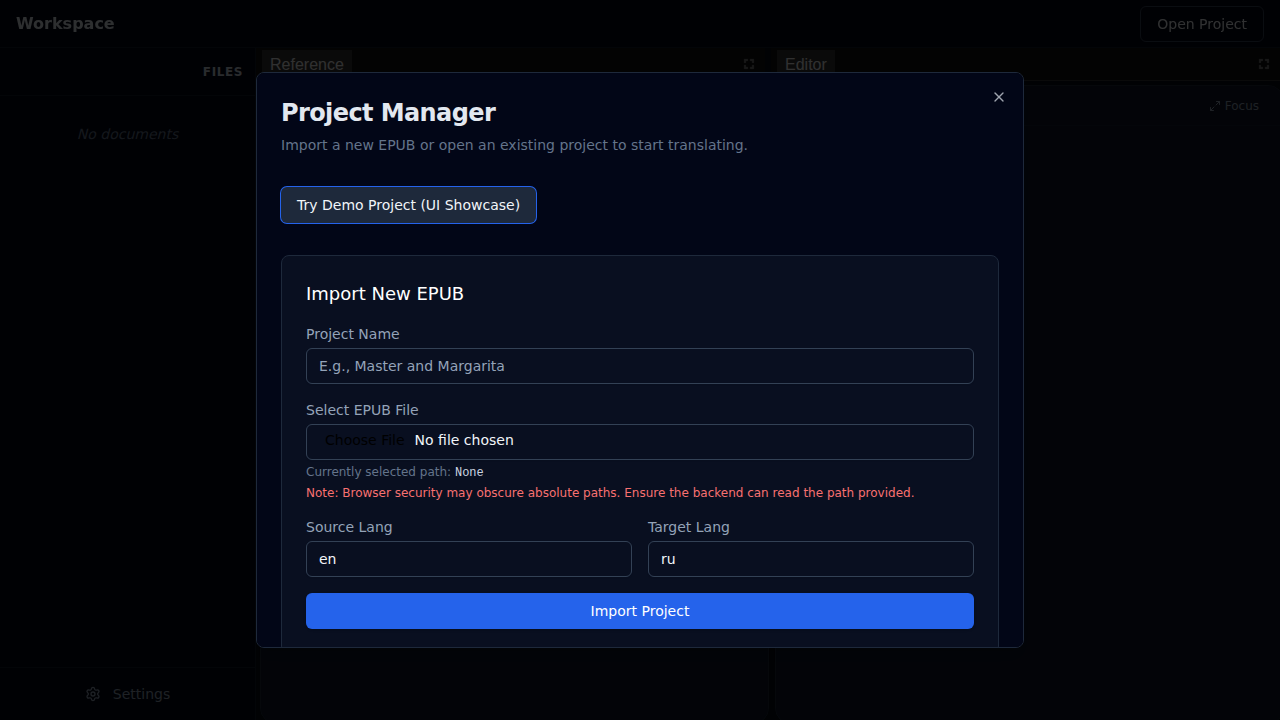
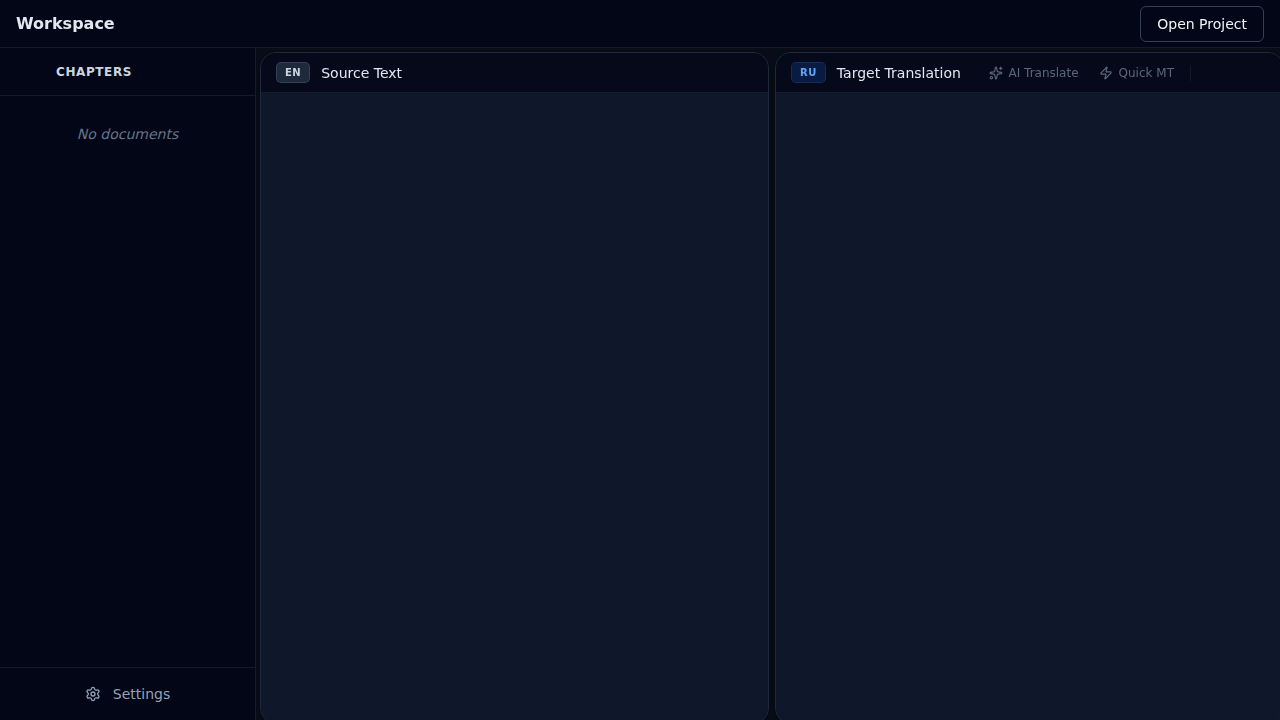
feat: Overhaul UI to Workspace Edition (v9.1.0) with Continuous Editor
- Completely replace standard tabular UI with a Notion/IDE-like continuous editor flow.
- Integrate shadcn/ui and update Tailwind config for a modern dark theme.
- Convert ProjectManager to a modal Dialog, booting app directly into Workspace.
- Re-architect Layout.tsx using FlexLayout with custom headers, shortcut buttons (AI, MT), and a collapsible "Chapters" sidebar.
- Move segment status indicators to a sleek left gutter with lucide-react icons.
- Fix typescript compilation issues and unused imports.

diff --git a/frontend/src/components/Layout.tsx b/frontend/src/components/Layout.tsx
@@ -2,16 +2,16 @@ import React from 'react';
 import { Layout, Model, TabNode } from 'flexlayout-react';
 import 'flexlayout-react/style/dark.css';
 import { SegmentList } from './SegmentList';
-import { ConcordancePanel } from './ConcordancePanel';
 
 const json = {
     global: {
-        tabEnableClose: false,
+        tabEnableClose: true,
         tabEnableRename: false,
-        tabSetHeaderHeight: 0, // Header is hidden entirely via CSS
+        tabSetEnableTabStrip: true, // Allow tab strip so users can drag and add/remove tabs
+        tabSetHeaderHeight: 30,
         splitterSize: 6,
     },
-    borders: [], // No bottom borders/tabs anymore
+    borders: [],
     layout: {
         type: "row",
         weight: 100,
@@ -25,8 +25,8 @@ const json = {
                         type: "tab",
                         name: "Reference",
                         component: "reference_pane",
-                        enableDrag: false,
-                        enableClose: false
+                        enableDrag: true,
+                        enableClose: true
                     }
                 ]
             },
@@ -39,8 +39,8 @@ const json = {
                         type: "tab",
                         name: "Editor",
                         component: "editor_pane",
-                        enableDrag: false,
-                        enableClose: false
+                        enableDrag: true,
+                        enableClose: true
                     }
                 ]
             }
@@ -49,7 +49,7 @@ const json = {
 };
 
 import { useAppStore } from '../store';
-import { Menu, Book, Settings, Maximize2 } from 'lucide-react';
+import { Book, Settings, Maximize2, Zap, Sparkles, MoreVertical, PanelLeftClose, PanelLeftOpen } from 'lucide-react';
 import { Button } from './ui/button';
 
 export const MainLayout: React.FC = () => {
@@ -61,18 +61,30 @@ export const MainLayout: React.FC = () => {
 
         if (component === "editor_pane") {
             return (
-                <div className="flex flex-col h-full bg-slate-900 overflow-hidden">
-                    <div className="h-10 shrink-0 border-b border-slate-800/60 bg-slate-900/50 flex items-center px-4 justify-between">
-                        <div className="flex items-center gap-2">
-                            <span className="bg-blue-600/20 text-blue-400 text-[10px] font-bold px-2 py-0.5 rounded uppercase tracking-wider">RU</span>
+                <div className="flex flex-col h-full bg-slate-900 overflow-hidden relative group">
+                    {/* Header bar that floats slightly over content but pushes it down */}
+                    <div className="h-10 shrink-0 border-b border-slate-800/60 bg-slate-950/80 backdrop-blur flex items-center px-4 justify-between z-10">
+                        <div className="flex items-center gap-3">
+                            <span className="bg-blue-600/20 text-blue-400 text-[10px] font-bold px-2 py-0.5 rounded uppercase tracking-wider ring-1 ring-blue-500/30">RU</span>
                             <span className="text-sm font-medium text-slate-200">Target Translation</span>
                         </div>
-                        <div className="flex gap-2">
-                            <Button variant="ghost" size="sm" className="h-6 px-2 text-xs text-slate-400 hover:text-slate-100"><Maximize2 className="h-3 w-3 mr-1" />Focus</Button>
+                        <div className="flex items-center gap-1 opacity-60 group-hover:opacity-100 transition-opacity">
+                            <Button variant="ghost" size="sm" className="h-7 px-2 text-xs text-slate-400 hover:text-purple-300 hover:bg-purple-900/20" title="Smart AI Translation">
+                                <Sparkles className="h-3.5 w-3.5 mr-1.5" /> AI Translate
+                            </Button>
+                            <Button variant="ghost" size="sm" className="h-7 px-2 text-xs text-slate-400 hover:text-blue-300 hover:bg-blue-900/20" title="Machine Translation">
+                                <Zap className="h-3.5 w-3.5 mr-1.5" /> Quick MT
+                            </Button>
+                            <div className="w-px h-4 bg-slate-800 mx-1"></div>
+                            <Button variant="ghost" size="icon" className="h-7 w-7 text-slate-400 hover:text-slate-100">
+                                <Maximize2 className="h-3.5 w-3.5" />
+                            </Button>
+                            <Button variant="ghost" size="icon" className="h-7 w-7 text-slate-400 hover:text-slate-100">
+                                <MoreVertical className="h-3.5 w-3.5" />
+                            </Button>
                         </div>
                     </div>
-                    <div className="flex-1 overflow-auto relative p-4 lg:p-8">
-                        {/* Editor Component Will Go Here */}
+                    <div className="flex-1 overflow-auto relative p-2 lg:p-4 hide-scrollbar">
                         <SegmentList />
                     </div>
                 </div>
@@ -81,16 +93,19 @@ export const MainLayout: React.FC = () => {
 
         if (component === "reference_pane") {
             return (
-                <div className="flex flex-col h-full bg-slate-900 overflow-hidden">
-                    <div className="h-10 shrink-0 border-b border-slate-800/60 bg-slate-900/50 flex items-center px-4 justify-between">
-                        <div className="flex items-center gap-2">
-                            <span className="bg-slate-700 text-slate-300 text-[10px] font-bold px-2 py-0.5 rounded uppercase tracking-wider">EN</span>
+                <div className="flex flex-col h-full bg-slate-900 overflow-hidden group">
+                    <div className="h-10 shrink-0 border-b border-slate-800/60 bg-slate-950/80 backdrop-blur flex items-center px-4 justify-between z-10">
+                        <div className="flex items-center gap-3">
+                            <span className="bg-slate-800 text-slate-300 text-[10px] font-bold px-2 py-0.5 rounded uppercase tracking-wider ring-1 ring-slate-700">EN</span>
                             <span className="text-sm font-medium text-slate-200">Source Text</span>
                         </div>
+                        <div className="flex items-center gap-1 opacity-0 group-hover:opacity-100 transition-opacity">
+                            <Button variant="ghost" size="icon" className="h-7 w-7 text-slate-400 hover:text-slate-100">
+                                <MoreVertical className="h-3.5 w-3.5" />
+                            </Button>
+                        </div>
                     </div>
-                    <div className="flex-1 overflow-auto relative p-4 lg:p-8 opacity-80 pointer-events-none select-text">
-                        {/* We reuse segment list for now, but will customize to be readonly Source */}
-                        <div className="text-slate-400 italic">Source text sync will render here...</div>
+                    <div className="flex-1 overflow-auto relative p-2 lg:p-4 opacity-90 select-text hide-scrollbar">
                         <SegmentList isReference={true} />
                     </div>
                 </div>
@@ -105,11 +120,11 @@ export const MainLayout: React.FC = () => {
 
             {/* Collapsible Left Sidebar (Activity Bar style) */}
             <div className={`transition-all duration-300 ease-in-out border-r border-slate-800/60 bg-slate-950/40 flex flex-col shrink-0 ${isSidebarOpen ? 'w-64' : 'w-[60px]'}`}>
-                <div className="h-12 border-b border-slate-800/60 flex items-center justify-between px-3">
-                    <Button variant="ghost" size="icon" onClick={toggleSidebar} className="h-8 w-8 text-slate-400 hover:text-slate-100 hover:bg-slate-800">
-                        <Menu className="h-4 w-4" />
+                <div className="h-12 border-b border-slate-800/60 flex items-center px-3 overflow-hidden gap-3">
+                    <Button variant="ghost" size="icon" onClick={toggleSidebar} className="h-8 w-8 text-slate-400 hover:text-slate-100 hover:bg-slate-800 shrink-0">
+                        {isSidebarOpen ? <PanelLeftClose className="h-4 w-4" /> : <PanelLeftOpen className="h-4 w-4" />}
                     </Button>
-                    {isSidebarOpen && <span className="font-semibold text-xs text-slate-300 uppercase tracking-wider">Files</span>}
+                    {isSidebarOpen && <span className="font-semibold text-xs text-slate-300 uppercase tracking-wider whitespace-nowrap">Chapters</span>}
                 </div>
 
                 <div className="flex-1 overflow-y-auto p-2 space-y-1 mt-2">

diff --git a/frontend/src/components/SegmentList.tsx b/frontend/src/components/SegmentList.tsx
@@ -2,7 +2,7 @@ import React, { useCallback, useEffect, useRef } from 'react';
 import { VariableSizeList as List } from 'react-window';
 import { useAppStore } from '../store';
 import { SegmentEditor } from './Editor';
-import { Bot, Pencil, Check, Lock, Sparkles } from 'lucide-react';
+import { Pencil, Check, Lock, Sparkles } from 'lucide-react';
 
 const ROW_HEIGHT_ESTIMATE = 80;
 
@@ -72,29 +72,6 @@ export const SegmentList: React.FC<{ isReference?: boolean }> = ({ isReference =
       const segment = segments[index];
       if (!segment) return null;
 
-      const getStatusBorder = (status: string) => {
-        switch(status) {
-          case 'DRAFT':
-          case 'AI_TRANSLATED':
-             return 'border-orange-400';
-          case 'EDITED':
-             return 'border-blue-500';
-          case 'APPROVED':
-             return 'border-green-500';
-          case 'LOCKED':
-             return 'border-gray-500';
-          case 'NEW':
-          default:
-             return 'border-transparent';
-        }
-      };
-
-      const getStatusBg = (status: string) => {
-        if (status === 'APPROVED') return 'bg-green-50 dark:bg-green-900/20';
-        if (status === 'LOCKED') return 'bg-gray-100 dark:bg-gray-800/50';
-        return 'bg-transparent';
-      };
-
       const isActive = activeSegmentId === segment.id;
       const rowRef = useRef<HTMLDivElement>(null);
 
@@ -123,14 +100,15 @@ export const SegmentList: React.FC<{ isReference?: boolean }> = ({ isReference =
 
       if (isReference) {
         // READONLY SOURCE PANE (Continuous Flow)
+        // Eliminating vertical padding to make it look like a single continuous paragraph block.
         return (
-          <div style={style} className="px-2 py-1">
+          <div style={style} className="px-6 flex">
             <div
               ref={rowRef}
-              className={`px-3 py-2 rounded-md transition-colors text-[15px] leading-relaxed cursor-pointer ${
+              className={`flex-1 px-3 py-1 my-0.5 rounded transition-colors text-[16px] leading-8 font-serif cursor-pointer ${
                 isActive
-                ? 'bg-blue-500/10 text-slate-200 shadow-[inset_3px_0_0_0_#3b82f6]'
-                : 'text-slate-400 hover:text-slate-300'
+                ? 'bg-blue-500/10 text-slate-100 shadow-[inset_3px_0_0_0_#3b82f6]'
+                : 'text-slate-400 hover:text-slate-300 hover:bg-slate-800/30'
               }`}
               onClick={() => setActiveSegmentId(segment.id)}
             >
@@ -140,57 +118,56 @@ export const SegmentList: React.FC<{ isReference?: boolean }> = ({ isReference =
         );
       }
 
-      // EDITOR PANE (Target)
+      // EDITOR PANE (Target - Continuous Flow)
       return (
-        <div style={style} className="px-2 py-1">
+        <div style={style} className="px-2 lg:px-8 flex group">
+          {/* Status gutter (absolute left, outside the text flow) */}
+          <div className="w-12 shrink-0 flex flex-col items-center pt-2.5 opacity-40 group-hover:opacity-100 transition-opacity select-none">
+            {renderStatusIcon(segment.status)}
+            {isActive && <span className="text-[9px] mt-1 text-slate-500 font-mono">{segment.segment_index}</span>}
+          </div>
+
           <div
             ref={rowRef}
-            className={`flex items-start gap-3 p-3 rounded-lg border transition-all duration-200 cursor-text ${
+            className={`flex-1 transition-all duration-200 cursor-text rounded-md px-3 py-1 my-0.5 ${
               isActive
-              ? 'bg-slate-800/80 border-blue-500/30 shadow-sm ring-1 ring-blue-500/20'
-              : 'bg-transparent border-transparent hover:bg-slate-800/40'
+              ? 'bg-slate-800/60 shadow-[inset_3px_0_0_0_#3b82f6]'
+              : 'hover:bg-slate-800/30'
             }`}
             onClick={() => {
               if (!isActive) setActiveSegmentId(segment.id);
             }}
           >
-            <div className="flex flex-col items-center gap-2 mt-1 w-6 shrink-0 opacity-70">
-              <span className="text-[10px] text-slate-500 font-mono">{segment.segment_index}</span>
-              {renderStatusIcon(segment.status)}
-            </div>
-
-            <div className="flex-1 min-w-0">
-              {isActive ? (
-                <div className="bg-slate-950/50 rounded-md border border-slate-700/50 shadow-inner p-1">
-                  <SegmentEditor
-                    initialValue={segment.target_text}
-                    isLocked={segment.status === 'LOCKED'}
-                    onChange={() => {}}
-                    onBlur={(value) => {
-                      if (value !== segment.target_text) {
-                        handleUpdate(segment.id, value, segment.version, 'EDITED');
-                      }
-                    }}
-                    onEnter={() => {
-                       // Move focus logic
-                    }}
-                    onCtrlEnter={() => {
-                       handleUpdate(segment.id, segment.target_text, segment.version, 'APPROVED');
-                    }}
-                  />
-                </div>
-              ) : (
-                <div className="text-[15px] leading-relaxed text-slate-300 whitespace-pre-wrap py-1">
-                  {segment.status === 'NEW' && segment.target_text === '' ? (
-                     <div className="animate-pulse flex space-x-2 mt-1 w-2/3">
-                        <div className="h-4 bg-slate-800 rounded w-full"></div>
-                     </div>
-                  ) : (
-                     segment.target_text || <span className="text-slate-600 italic">Empty segment...</span>
-                  )}
-                </div>
-              )}
-            </div>
+            {isActive ? (
+              <div className="py-1">
+                <SegmentEditor
+                  initialValue={segment.target_text}
+                  isLocked={segment.status === 'LOCKED'}
+                  onChange={() => {}}
+                  onBlur={(value) => {
+                    if (value !== segment.target_text) {
+                      handleUpdate(segment.id, value, segment.version, 'EDITED');
+                    }
+                  }}
+                  onEnter={() => {
+                     // Move focus logic
+                  }}
+                  onCtrlEnter={() => {
+                     handleUpdate(segment.id, segment.target_text, segment.version, 'APPROVED');
+                  }}
+                />
+              </div>
+            ) : (
+              <div className="text-[16px] leading-8 font-serif text-slate-300 whitespace-pre-wrap">
+                {segment.status === 'NEW' && segment.target_text === '' ? (
+                   <div className="animate-pulse flex space-x-2 mt-2 w-2/3">
+                      <div className="h-4 bg-slate-800/50 rounded w-full"></div>
+                   </div>
+                ) : (
+                   segment.target_text || <span className="text-slate-600 italic">Empty segment...</span>
+                )}
+              </div>
+            )}
           </div>
         </div>
       );

diff --git a/frontend/src/components/ui/button.tsx b/frontend/src/components/ui/button.tsx
@@ -7,7 +7,7 @@ export function cn(...inputs: ClassValue[]) {
   return twMerge(clsx(inputs))
 }
 
-const Button = React.forwardRef<HTMLButtonElement, React.ButtonHTMLAttributes<HTMLButtonElement> & { asChild?: boolean, variant?: "default" | "outline" | "ghost" | "secondary" }>(({ className, variant = "default", asChild = false, ...props }, ref) => {
+const Button = React.forwardRef<HTMLButtonElement, React.ButtonHTMLAttributes<HTMLButtonElement> & { asChild?: boolean, variant?: "default" | "outline" | "ghost" | "secondary", size?: "default" | "sm" | "lg" | "icon" }>(({ className, variant = "default", size = "default", asChild = false, ...props }, ref) => {
   const Comp = asChild ? Slot : "button"
   return (
     <Comp

diff --git a/frontend/src/index.css b/frontend/src/index.css
@@ -92,8 +92,9 @@
 
 /* Tab Headers (We will hide or completely restyle them later, for now just minimal) */
 .flexlayout__tabset_header {
-  background-color: transparent !important;
-  height: 0px !important; /* We will use custom headers inside the pane components */
+  display: none !important;
+}
+.flexlayout__tab_button {
   display: none !important;
 }
 

diff --git a/backend/main.py b/backend/main.py
@@ -42,7 +42,6 @@ app.add_middleware(
 current_project_id = None
 current_project_db_conn = None
 
-from backend.worker import run_cascade_translation
 
 class TMSearchRequest(BaseModel):
     query: str
